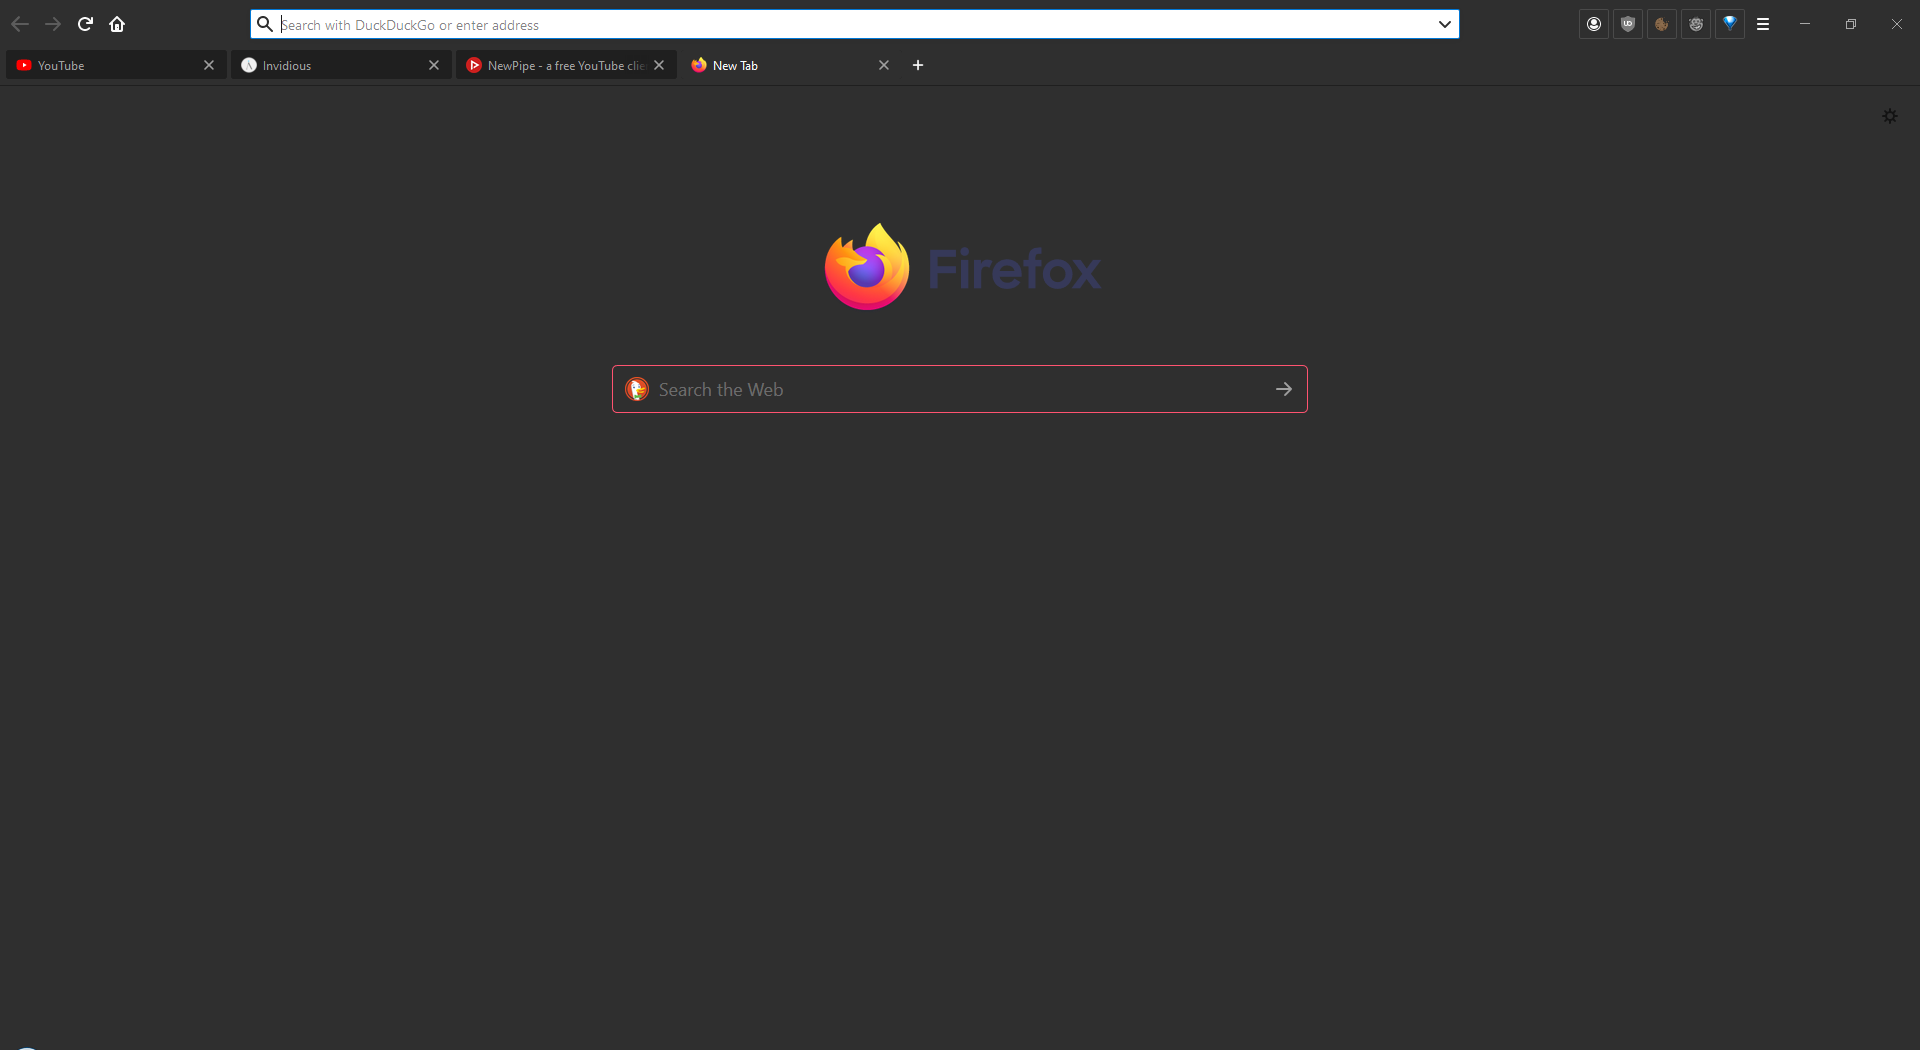
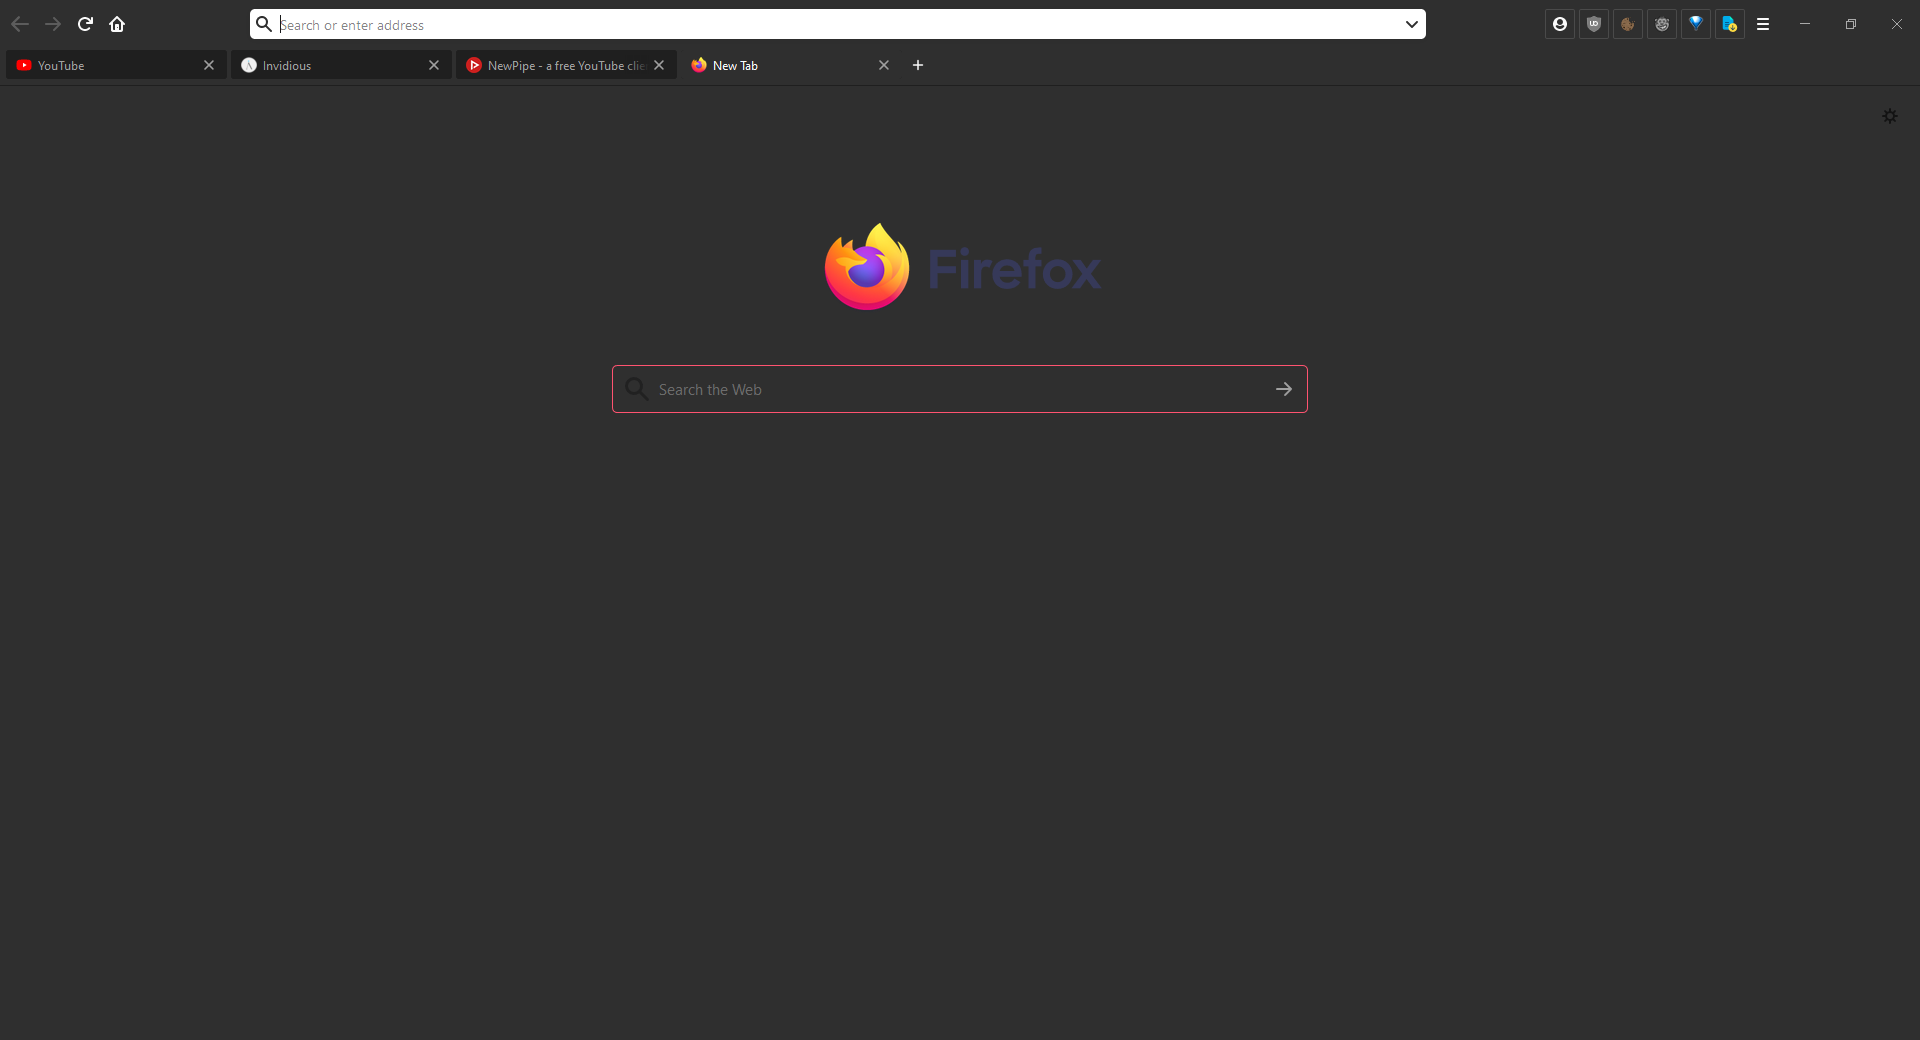
changed urlbar + preview.png

diff --git a/_navigation-bar.css b/_navigation-bar.css
@@ -63,43 +63,10 @@
 /* --- */
 
 /* - Url bar - */
-/* #urlbar-input {
-    color: var(--black) !important;
-}
-#urlbar #urlbar-background {
-    background-color: var(--light-gray) !important;
+#urlbar {
+    border-radius: 5px !important;;
     border: none !important;
-    border-radius: 3px;
-    box-shadow: none !important;
 }
-#urlbar[open="true"] #urlbar-background {
-    background-color: var(--white) !important;
-}
-.urlbarView:not(.megabar) .urlbarView-row:not([type="tip"]):hover,
-.urlbarView.megabar .urlbarView-row:not([type="tip"]):hover > .urlbarView-row-inner {
-    background: none !important;
-}
-.urlbarView #urlbar-results .urlbarView-row .urlbarView-row-inner {
-    transition: color 100ms cubic-bezier(0.645, 0.045, 0.355, 1) !important;
-}
-.urlbarView #urlbar-results .urlbarView-row .urlbarView-row-inner:hover {
-    color: var(--black) !important;
-}
-.urlbarView
-    #urlbar-results
-    .urlbarView-row[aria-selected="true"]
-    .urlbarView-row-inner {
-    color: var(--white) !important;
-}
-.urlbarView.megabar .urlbarView-body-inner {
-    border: 0 !important;
-}
-.urlbarView #urlbar-results {
-    color: var(--gray) !important;
-}
-.urlbarView #urlbar-results .urlbarView-row .urlbarView-url {
-    color: var(--moonlight-blue) !important;
-} */
 
 /* Url bar Icons */
 
